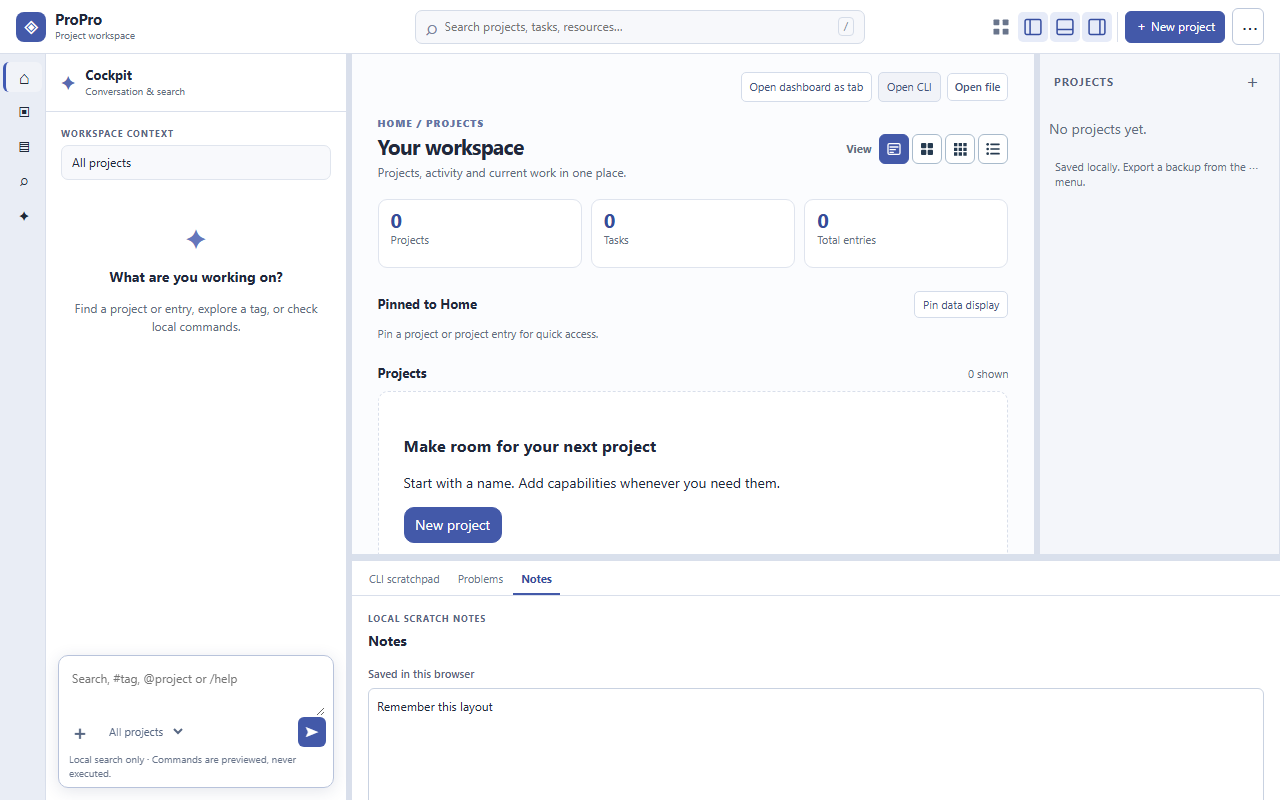
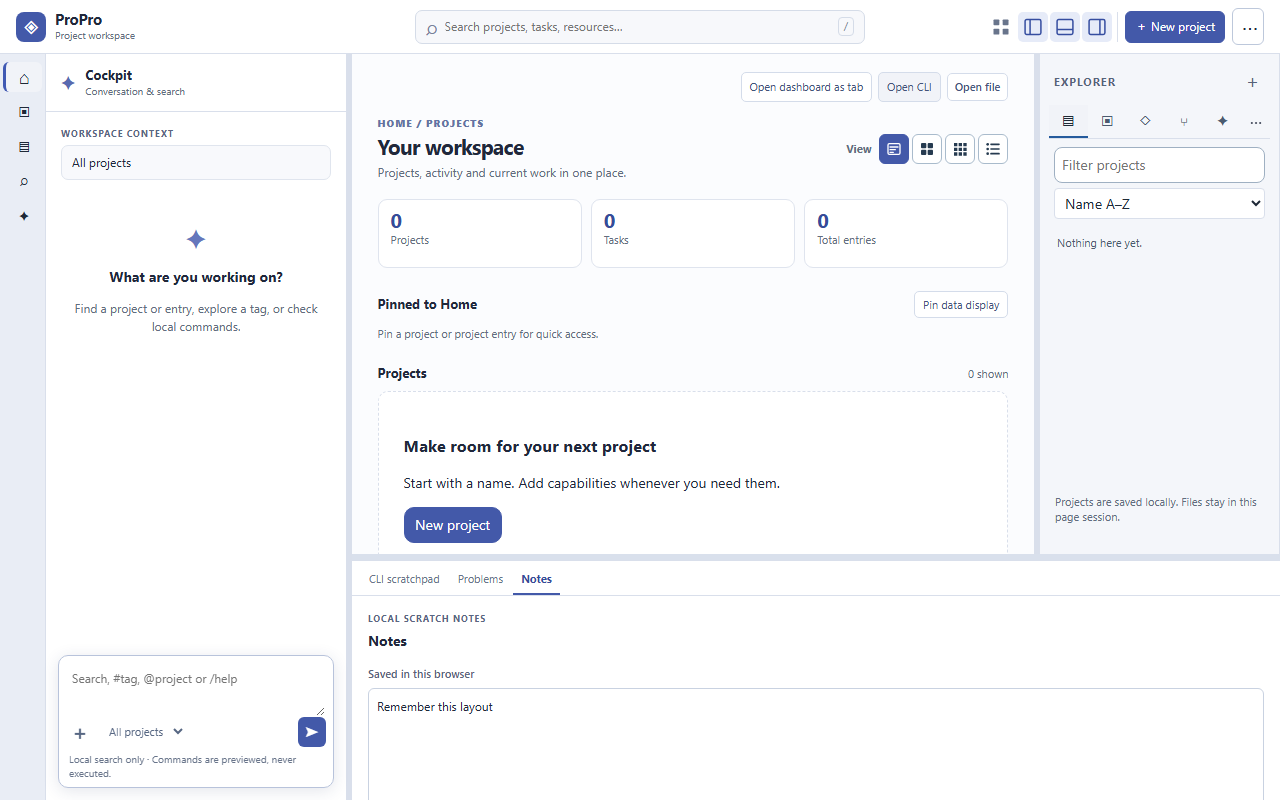
feat: adopt tabbed Explorer in ProPro
Change-Level: feature

Dev-Docs: cockpit-gui/DEV-PLAN.md (CKP-GUI-008)

Validation: npm test; npm run test:browser; targeted final Explorer browser test; 1280px and 390px screenshots

Changed region(s): [[0.8125, 0.1562, 0.9688, 0.3125], [0.8125, 0.625, 0.9688, 0.6562], [0.8125, 0.0938, 0.875, 0.125]]

diff --git a/styles.css b/styles.css
@@ -31,7 +31,7 @@ button:focus-visible, input:focus-visible, select:focus-visible, .import-label:f
 .empty { grid-column:1/-1; padding:2rem; background:#fff; border:1px dashed var(--border); border-radius:18px; }
 .detail-panel { background:#fff; border:1px solid var(--border); border-radius:18px; margin-top:1.5rem; padding:clamp(.8rem,2vw,1.4rem); } .detail-head { display:flex; justify-content:space-between; gap:1rem; flex-wrap:wrap; } .detail-head h2 { margin:0; overflow-wrap:anywhere; } .rename-form,.entry-form { display:flex; align-items:end; gap:.5rem; flex-wrap:wrap; } label { display:grid; gap:.25rem; font-weight:600; } input:not([type=file]):not([type=checkbox]) { padding:.5rem; border:1px solid #9fb0c2; border-radius:8px; min-width:0; max-width:100%; } .rename-form input { width:210px; } .detail-tabs { display:flex; overflow-x:auto; gap:.4rem; padding:.8rem 0; border-bottom:1px solid var(--border); } .detail-tabs button { white-space:nowrap; } .detail-tabs button[aria-pressed=true] { background:#d9eafb; border-color:var(--blue); font-weight:700; } .detail-body { padding-top:1rem; } .detail-body form { display:grid; gap:.8rem; justify-items:start; } .entry-list { list-style:none; padding:0; } .entry-list li { display:flex; justify-content:space-between; gap:.5rem; border-top:1px solid var(--border); padding:.6rem 0; overflow-wrap:anywhere; } .cap-options { display:flex; gap:.6rem 1rem; flex-wrap:wrap; } .cap-options label { display:inline-flex; align-items:center; font-weight:400; } fieldset { border:1px solid var(--border); border-radius:10px; max-width:100%; }
 dialog { border:1px solid var(--border); border-radius:16px; width:min(92vw,520px); max-height:90vh; overflow:auto; padding:1.4rem; color:var(--ink); } dialog::backdrop { background:#152c49aa; } dialog h2 { margin-top:0; } .stack { display:grid; gap:1rem; }
-@media(max-width:1050px) { #workbench { min-height:0; } #explorer.cockpit-workbench__explorer { display:block; } #explorer #project-nav { display:flex; gap:.35rem; overflow-x:auto; } #explorer .nav-project { width:auto; flex:0 0 auto; margin:0; } #explorer .hint { display:none; } }
+@media(max-width:1050px) { #workbench { min-height:0; } #explorer.cockpit-workbench__explorer { display:block; } #explorer .hint { display:none; } }
 @media(max-width:600px) { .site-header { align-items:start; } .site-header h1 { font-size:1.7rem; } .header-actions { width:100%; } .header-actions button,.import-label { flex:1; justify-content:center; } .card-main { display:block; } .card-actions { justify-content:start; margin-top:.8rem; } .cards[data-mode=list] .card-main { display:block; } .cards[data-mode=list] .card-actions { margin-top:.4rem; } .content-head { align-items:start; } .layout-picker { justify-items:start; } }
 
 /* Refined Balanced: a compact workspace shell with a welcoming project surface. */
@@ -70,14 +70,14 @@ body { background:#f5f6fa; }
 .cockpit-workbench__activity { padding:.55rem .2rem; background:#e9edf5; }
 .cockpit-workbench__activity-button { min-height:38px; font-size:19px; border-radius:6px; }
 .cockpit-workbench__activity-button[data-activity=home] span { transform:scale(1.3); }
-#explorer.cockpit-workbench__explorer { padding:12px 9px; background:#f4f6fa; }
+#explorer.cockpit-workbench__explorer { display:flex; flex-direction:column; min-height:0; padding:12px 9px; background:#f4f6fa; }
+#tabbed-explorer { flex:1; min-height:0; }
 #explorer[hidden] { display:none!important; }
 .explorer-head { display:flex; align-items:center; justify-content:space-between; padding:1px 5px 8px; }
 #explorer h2 { margin:0; font-size:11px; text-transform:uppercase; letter-spacing:.09em; color:#57637a; }
 .explorer-head button { padding:0; width:25px; height:25px; border:0; background:transparent; color:#57637a; font-size:18px; }
-.nav-project { display:flex; align-items:center; gap:7px; margin:2px 0; padding:6px 8px; min-height:32px; border:0; border-radius:5px; background:transparent; font-size:12px; }
-.nav-project span { color:#7b88a2; }
-.nav-project[aria-current=true] { background:#e2e8fa; color:#334c9b; }
+#tabbed-explorer .cockpit-tabbed-explorer__tab { font-size:15px; }
+#tabbed-explorer .cockpit-tabbed-explorer__item[aria-selected="true"] { background:#e2e8fa; color:#334c9b; }
 .hint { padding:6px; font-size:11px; }
 #content.cockpit-workbench__content { padding:22px clamp(16px,2vw,28px); background:#fbfcfe; }
 .content-head { align-items:center; margin-bottom:16px; }
@@ -198,11 +198,10 @@ body { background:#f5f6fa; }
 .home-actions { display:flex; align-items:center; justify-content:flex-end; flex-wrap:wrap; gap:6px; margin:-4px 0 12px; }
 .home-actions > button { min-height:28px; padding:4px 8px; border:1px solid #d4dcea; border-radius:5px; background:#fff; color:#43527a; font-size:11px; }
 #editor-tab-list { display:flex; flex:1; min-width:0; gap:2px; overflow-x:auto; }
-.editor-tab-item { display:flex; flex:none; align-items:center; border-bottom:2px solid transparent; }
-.editor-tab-item:has([aria-selected="true"]) { border-bottom-color:#4359a9; background:#f1f3fa; }
-.editor-tab-item > button { min-height:34px; padding:5px 8px; border:0; border-radius:0; background:transparent; color:#566278; font-size:11px; white-space:nowrap; }
-.editor-tab-item > button[aria-selected="true"] { color:#263e91; font-weight:700; }
-.editor-tab-item .close-editor-tab { min-width:24px; padding:4px; font-size:16px; }
+.editor-tab-item { flex:none; min-height:34px; padding:5px 8px; border:0; border-bottom:2px solid transparent; border-radius:0; background:transparent; color:#566278; font-size:11px; white-space:nowrap; }
+.editor-tab-item[aria-selected="true"] { border-bottom-color:#4359a9; background:#f1f3fa; color:#263e91; font-weight:700; }
+#close-active-tab { font-size:18px; padding:0 7px; }
+#close-active-tab[hidden] { display:none!important; }
 .editor-actions { display:flex; align-items:center; gap:5px; flex:none; }
 .editor-actions > button,.open-file-button { display:flex; align-items:center; justify-content:center; min-height:28px; padding:4px 7px; border:1px solid #d4dcea; border-radius:5px; background:#fff; color:#43527a; cursor:pointer; font-size:11px; white-space:nowrap; }
 .open-file-button { position:relative; overflow:hidden; }

diff --git a/index.html b/index.html
@@ -15,13 +15,14 @@
   </header>
   <p id="message" class="status" role="status" aria-live="polite"></p>
   <main id="workbench" aria-label="Project workspace">
-    <aside id="explorer" aria-label="Project navigation"><div class="explorer-head"><h2>Projects</h2><button type="button" data-new aria-label="Add project" title="Add project">＋</button></div><div id="project-nav"></div><p class="hint">Saved locally. Export a backup from the ⋯ menu.</p></aside>
+    <aside id="explorer" aria-label="Workspace explorer"><div class="explorer-head"><h2>Explorer</h2><button type="button" data-new aria-label="Add project" title="Add project">＋</button></div><div id="tabbed-explorer"></div><p class="hint">Projects are saved locally. Files stay in this page session.</p></aside>
     <section id="content" aria-label="Project dashboard"><div class="content-head"><div><p class="eyebrow">HOME / PROJECTS</p><h2 id="dashboard-heading" tabindex="-1">Your workspace</h2><p id="project-count" class="muted"></p></div><div class="layout-picker"><span class="layout-picker__label" id="layout-label">View</span><div class="view-switch" role="group" aria-labelledby="layout-label"><button type="button" data-mode="large" aria-label="Large tiles" title="Large tiles"><svg viewBox="0 0 24 24" aria-hidden="true" focusable="false"><rect x="3" y="4" width="18" height="16" rx="2" fill="none" stroke="currentColor" stroke-width="2"/><path d="M6 9h12M6 13h8M6 17h5" fill="none" stroke="currentColor" stroke-width="2" stroke-linecap="round"/></svg></button><button type="button" data-mode="mini" aria-label="Mini tiles" title="Mini tiles"><svg viewBox="0 0 24 24" aria-hidden="true" focusable="false"><rect x="3" y="3" width="8" height="8" rx="1.5"/><rect x="13" y="3" width="8" height="8" rx="1.5"/><rect x="3" y="13" width="8" height="8" rx="1.5"/><rect x="13" y="13" width="8" height="8" rx="1.5"/></svg></button><button type="button" data-mode="grid" aria-label="Grid tiles" title="Grid tiles"><svg viewBox="0 0 24 24" aria-hidden="true" focusable="false"><path d="M3 3h5v5H3zm7 0h5v5h-5zm7 0h5v5h-5zM3 10h5v5H3zm7 0h5v5h-5zm7 0h5v5h-5zM3 17h5v5H3zm7 0h5v5h-5zm7 0h5v5h-5z"/></svg></button><button type="button" data-mode="list" aria-label="List tiles" title="List tiles"><svg viewBox="0 0 24 24" aria-hidden="true" focusable="false"><circle cx="4" cy="5" r="2"/><circle cx="4" cy="12" r="2"/><circle cx="4" cy="19" r="2"/><path d="M9 5h12M9 12h12M9 19h12" fill="none" stroke="currentColor" stroke-width="2.5" stroke-linecap="round"/></svg></button></div></div></div><div id="overview-stats" class="overview-stats" aria-label="Workspace overview"></div><div class="section-head"><h3>Projects</h3><span id="section-count"></span></div><div id="cards" class="cards"></div><section id="recent-work" class="recent-work" aria-label="Recent work"></section><div id="detail"></div></section>
     <aside id="context" aria-label="Conversation and search"><div class="context-head"><span class="context-icon" aria-hidden="true">✦</span><div><h2>Cockpit</h2><p>Conversation &amp; search</p></div></div><div class="context-content"><p class="context-eyebrow">WORKSPACE CONTEXT</p><div id="context-project" class="context-project">All projects</div><div class="context-welcome"><span class="context-spark" aria-hidden="true">✦</span><h3>What are you working on?</h3><p>Find a project or entry, explore a tag, or check local commands.</p></div><div id="composer-results" role="status" aria-live="polite"></div></div><form id="composer" class="composer"><label for="composer-input" class="sr-only">Ask or search workspace</label><textarea id="composer-input" rows="2" placeholder="Search, #tag, @project or /help"></textarea><div id="composer-suggestions" class="composer-suggestions" role="group" aria-label="Composer suggestions"></div><div id="composer-attachments" class="composer-attachments"></div><div class="composer-tools"><label class="attach-button" title="Add attachment" aria-label="Add attachment">＋<input id="composer-files" type="file" multiple></label><select id="composer-scope" aria-label="Search scope"><option value="all">All projects</option><option value="projects">Projects</option><option value="entries">Entries</option></select><button type="submit" class="composer-submit" aria-label="Search workspace" title="Search workspace">➤</button></div><p class="composer-note">Local search only · Commands are previewed, never executed.</p></form></aside>
   </main>
   <dialog id="project-dialog" aria-labelledby="create-heading"><form id="project-form" class="stack"><h2 id="create-heading">Create project</h2><label>Project name<input name="name" maxlength="200" required placeholder="e.g. Neighborhood garden"></label><fieldset><legend>Capabilities (optional)</legend><div id="create-caps" class="cap-options"></div></fieldset><div class="row"><button class="primary" type="submit">Create project</button><button id="cancel-project" type="button">Cancel</button></div></form></dialog>
   <dialog id="import-dialog" aria-labelledby="import-heading"><h2 id="import-heading">Replace saved projects?</h2><p>Importing this file will replace all projects saved in this browser. Export a backup first if you need one.</p><div class="row"><button id="confirm-import" class="primary" type="button">Replace projects</button><button id="cancel-import" type="button">Cancel</button></div></dialog>
   <script src="./node_modules/@cockpit/gui/src/workbenchUI.js"></script>
+  <script src="./node_modules/@cockpit/gui/src/tabbedExplorerUI.js"></script>
   <script src="./model.mjs"></script>
   <script src="./app.mjs"></script>
 </body>

diff --git a/docs/PROP-CKP-001B-IMPLEMENTATION.md b/docs/PROP-CKP-001B-IMPLEMENTATION.md
@@ -104,3 +104,9 @@ The running capture `docs/screenshots/propro-bottom-tools-1280.png` shows both p
 Cockpit GUI `0.1.3` promotes the independent bottom region into an optional package slot. ProPro supplies the host-owned `#bottom-panel` and its CLI scratchpad, Problems and Notes views; the package now owns bottom visibility, height, resize separator and persistence through the existing workbench layout key. The side Conversation pane and composer remain independent. ProPro migrates previously saved `propro-bottom-pane-v1` settings into the shared layout on first load, while the package migrates a legacy bottom-docked context to right placement with bottom tools open. The earlier host-owned sizing and visibility implementation has been removed.
 
[1 lines of base64/hex data omitted]
+
+### Tabbed Explorer adoption — 2026-11-06
+
[1 lines of base64/hex data omitted]
+
+Explorer preferences persist separately from version 1 project records. Tab switching leaves the center workspace, bottom tools and side Conversation in place. The center tab strip now keeps only tab controls inside its tablist; the active tab has a separate close control, preserving keyboard and accessible closing. Running captures `docs/screenshots/propro-tabbed-explorer-1280.png` and `docs/screenshots/propro-tabbed-explorer-390.png` show the populated Projects view. Browser checks cover opening project/entry/file tabs, per-view sorting/filtering, tab order/visibility persistence, unavailable sources, data isolation, narrow reflow and WCAG 2.2 AA automated rules. Connected filesystem, Git, chat and binary-asset providers remain separate future integrations.
